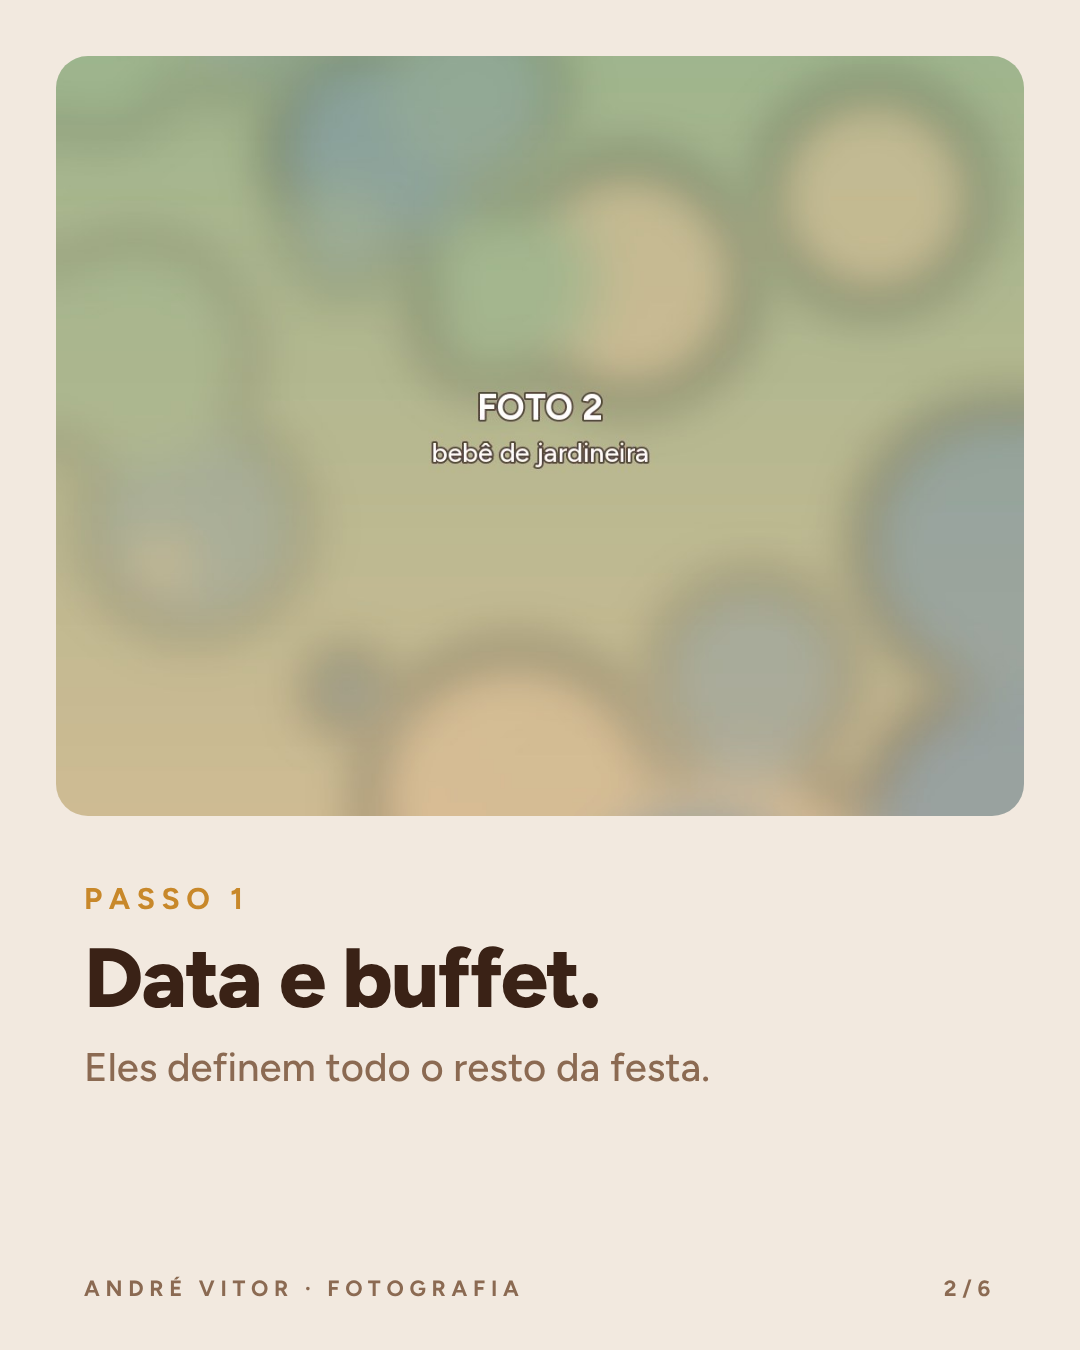
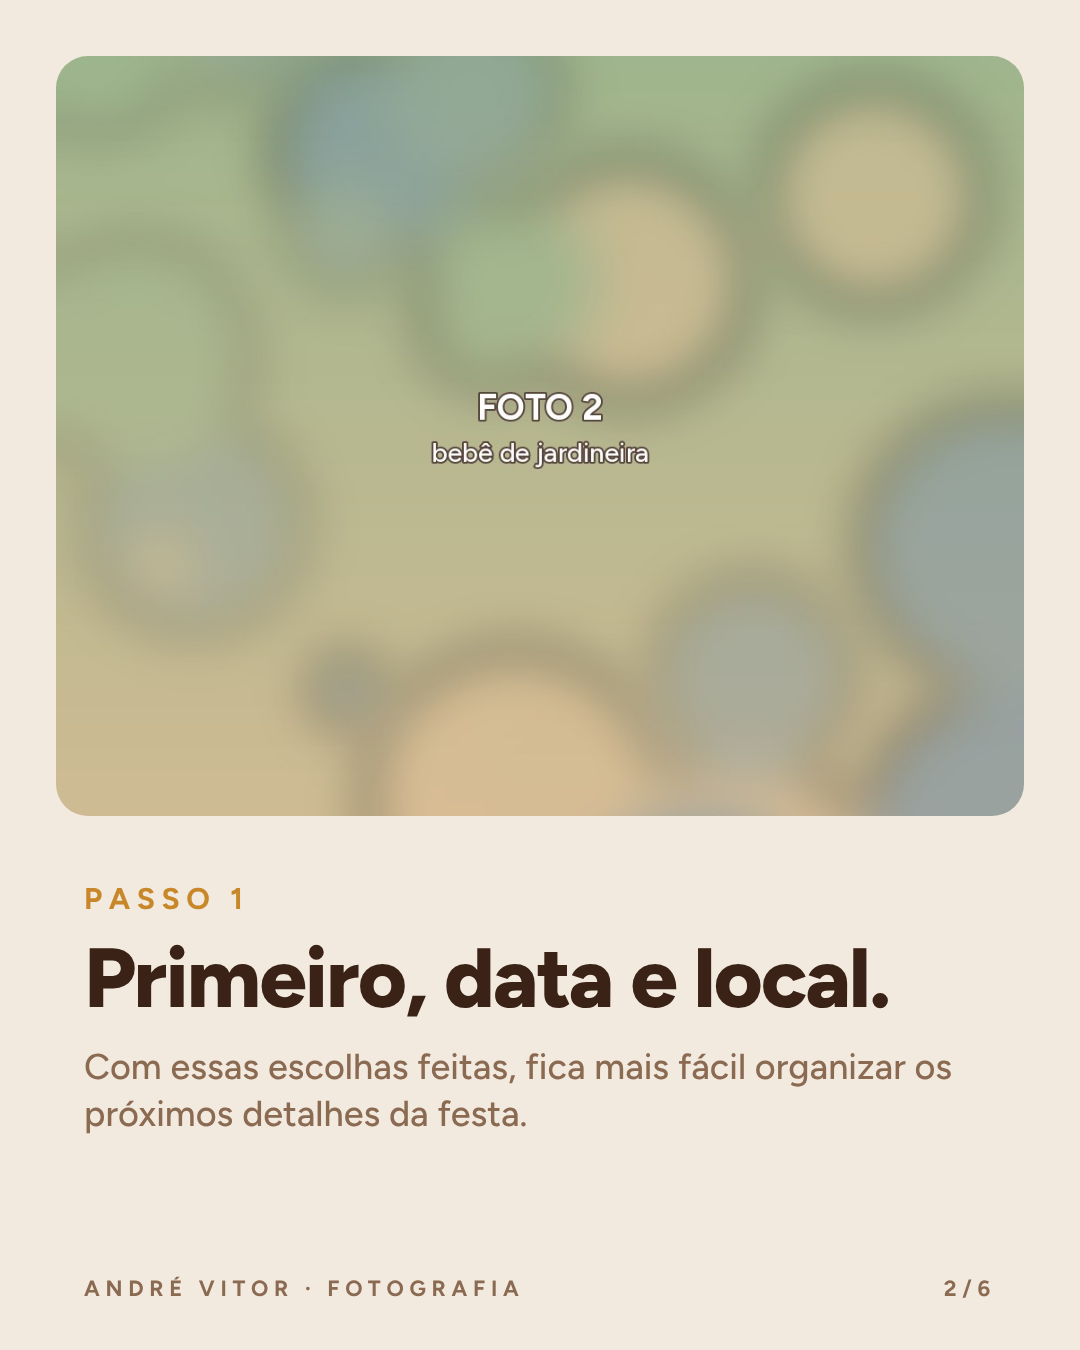
Carrossel festa infantil: novo texto dos 6 slides
Claude-Session: https://claude.ai/code/session_01V8X75n2knntE3NdxPFh2K8

Changed region(s): [[0.0611, 0.7778, 0.8861, 0.84], [0.0917, 0.6844, 0.825, 0.7467]]

diff --git a/anuncio-festa/slides.html b/anuncio-festa/slides.html
@@ -41,7 +41,12 @@
     color:var(--ambar); margin-bottom:18px;
   }
   .titulo{ font-weight:800; font-size:84px; line-height:1.02; letter-spacing:-.02em; }
-  .sub{ font-weight:500; font-size:40px; line-height:1.3; color:var(--cacau); margin-top:20px; }
+  .sub{ font-weight:500; font-size:36px; line-height:1.32; color:var(--cacau); margin-top:22px; }
+  .sub + .sub{ margin-top:16px; }
+  /* slides com mais texto: foto menor */
+  .longo .foto{ height:600px; }
+  .longo .texto{ top:712px; }
+  .longo .titulo{ font-size:68px; line-height:1.05; }
 
   .rodape{
     position:absolute; left:84px; right:84px; bottom:48px;
@@ -60,9 +65,10 @@
   .capa .texto{ top:auto; bottom:150px; color:var(--creme); }
   .capa .passo{ color:var(--caramelo); }
   .capa .titulo{ font-size:96px; }
+  .capa .chamada{ font-weight:600; font-size:48px; margin-top:28px; }
   .capa .destaque{
     font-family:'Fraunces',serif; font-style:italic; font-size:58px;
-    color:#E9B865; margin-top:22px;
+    color:#E9B865; margin-top:6px;
   }
   .capa .rodape{ color:var(--caramelo); }
   .seta{ display:inline-flex; align-items:center; gap:14px; color:var(--creme); }
@@ -71,9 +77,7 @@
   /* ---------- 5: virada (fundo escuro) ---------- */
   .virada{ background:var(--marrom); color:var(--creme); }
   .virada .passo{ color:var(--caramelo); }
-  .virada .foto{ height:600px; }
-  .virada .texto{ top:720px; }
-  .virada .titulo{ font-size:80px; }
+
   .virada .titulo em{ font-style:normal; color:#E9B865; display:block; }
   .virada .sub{ color:var(--caramelo); }
   .virada .rodape{ color:var(--caramelo); }
@@ -86,7 +90,7 @@
   }
   .autora{ font-weight:600; font-size:28px; color:var(--cacau); margin-top:14px; }
   .linha{ height:2px; background:var(--caramelo); width:180px; margin:30px 0 28px; }
-  .cta .titulo{ font-size:62px; line-height:1.08; }
+  .cta .titulo{ font-size:76px; line-height:1.04; }
   .botao{
     display:inline-flex; align-items:center; gap:18px; margin-top:34px;
     background:var(--ambar); color:#fff; border-radius:999px;
@@ -101,65 +105,64 @@
 <section class="slide capa" id="s1">
   <div class="fundo"><img src="fotos/foto1.jpg" style="--pos:50% 40%" alt=""></div>
   <div class="texto">
-    <p class="passo">Festa infantil</p>
-    <h1 class="titulo">A ordem certa para organizar a festa do seu filho</h1>
+    <h1 class="titulo">Vai organizar a festa do seu filho?</h1>
+    <p class="chamada">Veja por onde começar</p>
     <p class="destaque">(quase todo mundo erra)</p>
   </div>
   <div class="rodape"><span>André Vitor · Fotografia</span><span class="seta">arraste <svg viewBox="0 0 44 20"><path d="M0 10h40M32 2l8 8-8 8" fill="none" stroke="currentColor" stroke-width="3"/></svg></span></div>
 </section>
 
-<!-- 2 · PASSO 1 -->
+<!-- 2 · DATA E LOCAL -->
 <section class="slide" id="s2">
   <div class="foto"><img src="fotos/foto2.jpg" style="--pos:50% 35%" alt=""></div>
   <div class="texto">
     <p class="passo">Passo 1</p>
-    <h2 class="titulo">Data e buffet.</h2>
-    <p class="sub">Eles definem todo o resto da festa.</p>
+    <h2 class="titulo">Primeiro, data e local.</h2>
+    <p class="sub">Com essas escolhas feitas, fica mais fácil organizar os próximos detalhes da festa.</p>
   </div>
   <div class="rodape"><span>André Vitor · Fotografia</span><span>2/6</span></div>
 </section>
 
-<!-- 3 · PASSO 2 -->
-<section class="slide" id="s3">
+<!-- 3 · FOTOGRAFIA -->
+<section class="slide longo" id="s3">
   <div class="foto"><img src="fotos/foto3.jpg" style="--pos:50% 35%" alt=""></div>
   <div class="texto">
     <p class="passo">Passo 2</p>
-    <h2 class="titulo">Fotógrafo.</h2>
-    <p class="sub">Antes da decoração.<br>Parece estranho, né? Já te explico.</p>
+    <h2 class="titulo">Data definida? É hora de escolher quem vai registrar.</h2>
+    <p class="sub">Eu fotografo a festa acompanhando as brincadeiras e os momentos que acontecem de verdade, sem poses forçadas.</p>
+    <p class="sub">Consulte a disponibilidade com antecedência para reservar sua data.</p>
   </div>
   <div class="rodape"><span>André Vitor · Fotografia</span><span>3/6</span></div>
 </section>
 
-<!-- 4 · PASSO 3 -->
-<section class="slide" id="s4">
+<!-- 4 · OS DETALHES -->
+<section class="slide longo" id="s4">
   <div class="foto"><img src="fotos/foto4.jpg" style="--pos:50% 50%" alt=""></div>
   <div class="texto">
     <p class="passo">Passo 3</p>
     <h2 class="titulo">Decoração, bolo e lembrancinhas.</h2>
-    <p class="sub">Isso dá pra resolver até perto da festa.</p>
+    <p class="sub">Planeje esses detalhes com carinho e combine os prazos com cada fornecedor. Assim, tudo vai ganhando a cara de vocês.</p>
   </div>
   <div class="rodape"><span>André Vitor · Fotografia</span><span>4/6</span></div>
 </section>
 
-<!-- 5 · POR QUÊ -->
-<section class="slide virada" id="s5">
+<!-- 5 · JEITO DE FOTOGRAFAR -->
+<section class="slide virada longo" id="s5">
   <div class="foto"><img src="fotos/foto5.jpg" style="--pos:50% 30%" alt=""></div>
   <div class="texto">
-    <p class="passo">Por que essa ordem?</p>
-    <h2 class="titulo">Decoração tem mil opções. <em>Fotógrafo só tem um sábado.</em></h2>
-    <p class="sub">E os sábados de 2027 já estão sendo reservados.</p>
+    <h2 class="titulo">Menos pose. <em>Mais brincadeira.</em></h2>
+    <p class="sub">Seu filho livre para brincar. Você junto, vivendo a festa.</p>
+    <p class="sub">E eu registrando os abraços, as risadas e tudo que acontece pelo caminho.</p>
   </div>
   <div class="rodape"><span>André Vitor · Fotografia</span><span>5/6</span></div>
 </section>
 
-<!-- 6 · PROVA + CTA -->
+<!-- 6 · CONVITE -->
 <section class="slide cta" id="s6">
   <div class="foto"><img src="fotos/foto6.jpg" style="--pos:50% 35%" alt=""></div>
   <div class="texto">
-    <p class="citacao">“Nunca conheci um fotógrafo que se desse tão bem com as crianças.”</p>
-    <p class="autora">Patricia, mãe do Gui</p>
-    <div class="linha"></div>
-    <h2 class="titulo">Me manda a data da sua festa que eu te digo se ainda está livre.</h2>
+    <h2 class="titulo">Vamos guardar essa festa em fotos?</h2>
+    <p class="sub">Me conta a data e o local da festa do seu filho. Eu te digo se tenho disponibilidade para estar com vocês.</p>
     <span class="botao"><svg viewBox="0 0 32 32"><path d="M16 3C9.4 3 4 8.4 4 15c0 2.6.8 5 2.3 7L4 29l7.2-2.3c1.5.8 3.1 1.2 4.8 1.2 6.6 0 12-5.4 12-12S22.6 3 16 3zm5.9 16.9c-.3.8-1.5 1.5-2.4 1.7-.6.1-1.4.2-4.2-.9-3.5-1.5-5.8-5-6-5.3-.2-.2-1.4-1.9-1.4-3.7s.9-2.6 1.3-3c.3-.3.7-.4 1-.4h.7c.2 0 .5 0 .8.6.3.7 1 2.5 1.1 2.7.1.2.1.4 0 .6-.1.2-.2.4-.4.6l-.6.7c-.2.2-.4.4-.2.8.2.4 1 1.7 2.2 2.7 1.5 1.4 2.8 1.8 3.2 2 .4.2.6.1.8-.1.2-.2 1-1.1 1.2-1.5.3-.4.5-.3.9-.2.4.1 2.2 1 2.6 1.2.4.2.6.3.7.5.1.2.1.9-.3 1.7z"/></svg>Chamar no WhatsApp</span>
   </div>
   <div class="rodape"><span>André Vitor · Fotografia</span><span>São Paulo</span></div>
